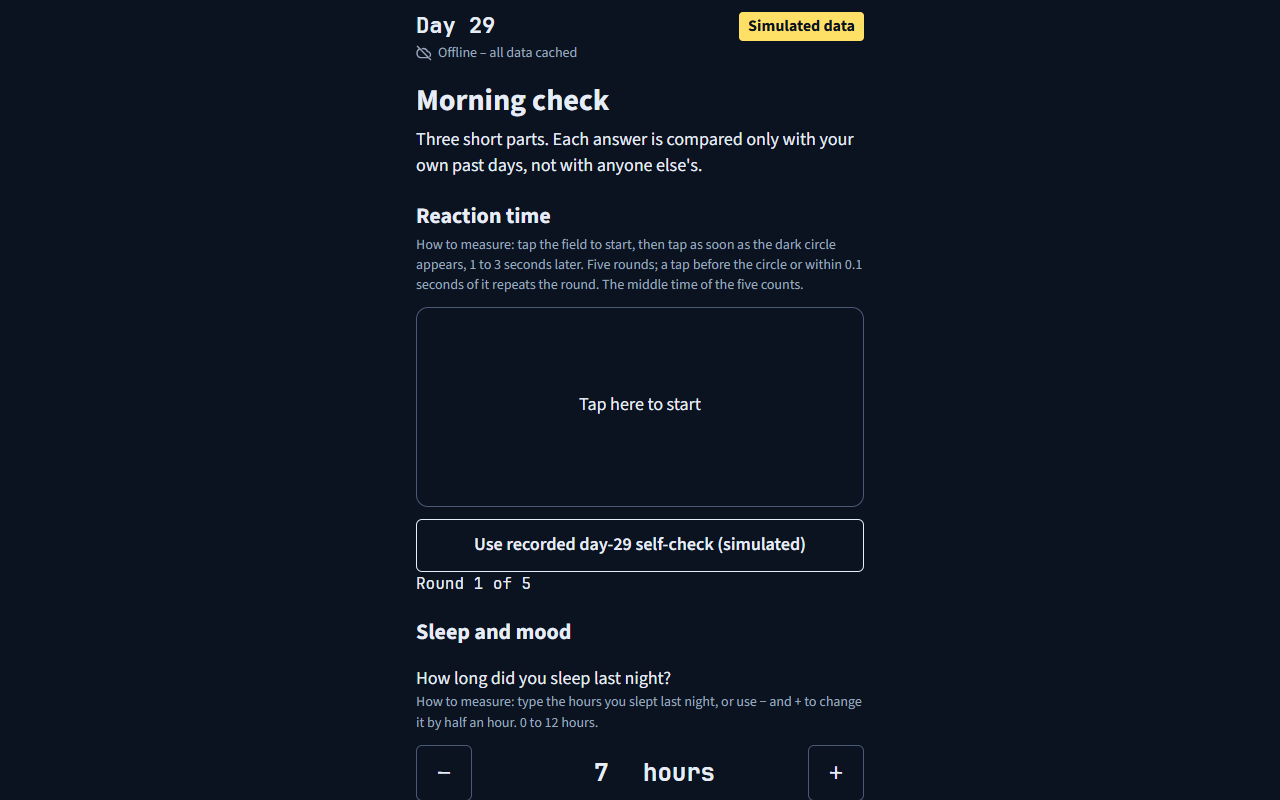
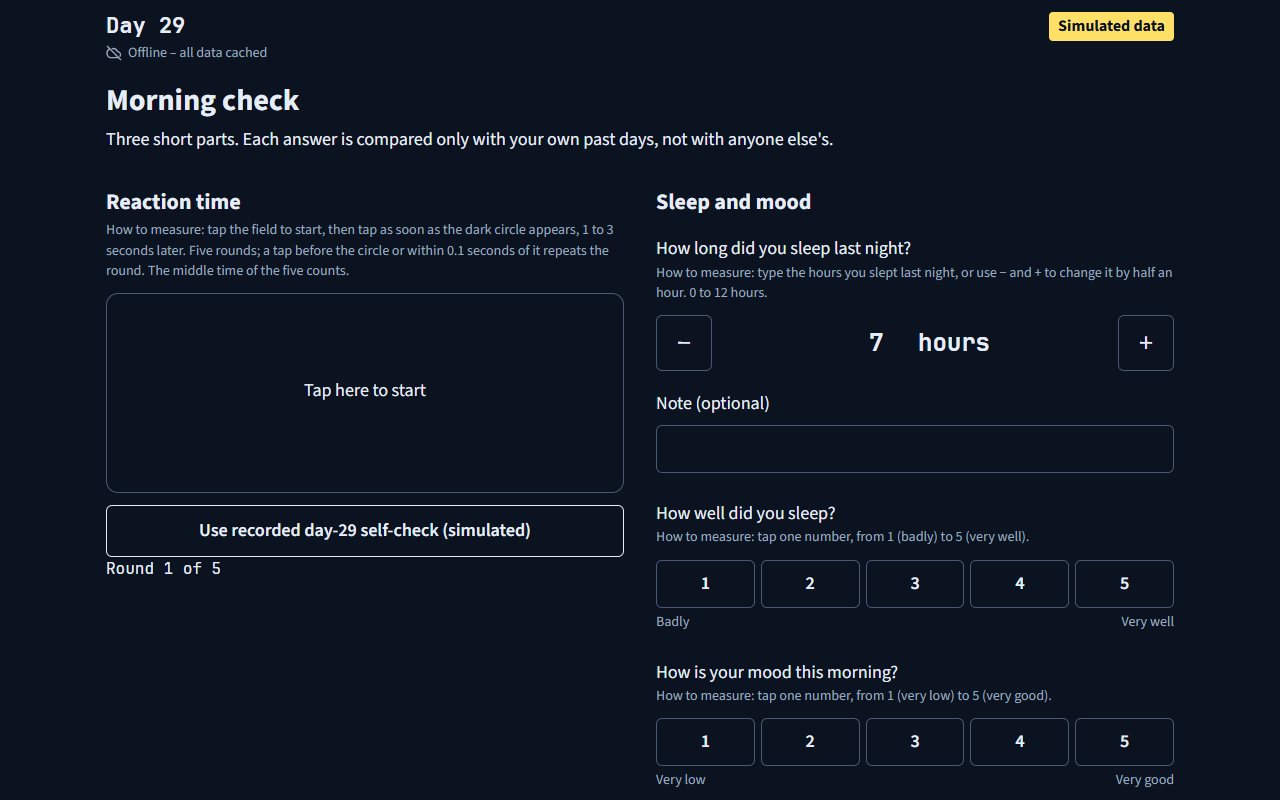
Responsive layout: tablet and laptop fill the screen; phone unchanged

diff --git a/web/index.html b/web/index.html
@@ -273,6 +273,23 @@ fieldset { border: 0; padding: 0; margin: 28px 0 0; min-width: 0; }
 
 /* Flight surgeon view (PLAN item 6, design L1): the one screen that uses a laptop's width; one column on a phone. */
 .wide .top, .wide main { max-width: 1360px; }
+/* Tablet and laptop (Hrishin, 13 Nov 2026): the same screens fill the width. Nothing here applies under 700 px,
+   so the phone layout is unchanged. The wrappers (.check-cols, .charts, .ev-cols) are plain blocks on a phone. */
+@media (min-width: 700px) {
+  .top, main { max-width: 900px; }
+  .bar-inner { max-width: 868px; }
+  .check-cols { display: grid; grid-template-columns: minmax(0, 1fr) minmax(0, 1fr); gap: 0 32px; align-items: start; }
+  .charts { display: grid; grid-template-columns: repeat(2, minmax(0, 1fr)); gap: 20px 24px; margin-top: 20px; }
+  .charts .channel { margin-top: 0; }
+  .charts .channel.bottom { grid-column: 1 / -1; } /* reaction time, alone on the last row: full row */
+}
+@media (min-width: 1100px) {
+  .top, main { max-width: 1100px; }
+  .bar-inner { max-width: 1068px; }
+  .charts { grid-template-columns: repeat(3, minmax(0, 1fr)); }
+  .ev-cols { display: grid; grid-template-columns: minmax(0, 1fr) minmax(0, 1fr); gap: 0 40px; align-items: start; }
+  .ev-b > h2:first-child { margin-top: 0; } /* both columns start on the same line */
+}
 #crew h1 { font-size: 36px; }
 .crew-grid { display: grid; gap: 24px; margin-top: 20px; }
 .crew-rows { list-style: none; padding: 0; margin: 0; }
@@ -332,6 +349,8 @@ fieldset { border: 0; padding: 0; margin: 28px 0 0; min-width: 0; }
   <h1 id="today-title" tabindex="-1">Morning check</h1>
   <p>Three short parts. Each answer is compared only with your own past days, not with anyone else's.</p>
 
+  <div class="check-cols">
+  <div class="check-rt">
   <h2>Reaction time</h2>
   <p class="meta how">How to measure: tap the field to start, then tap as soon as the dark circle appears, 1 to 3 seconds later. Five rounds; a tap before the circle or within 0.1 seconds of it repeats the round. The middle time of the five counts.</p>
   <button id="rt-field" class="rt" type="button" aria-describedby="rt-status">
@@ -342,6 +361,8 @@ fieldset { border: 0; padding: 0; margin: 28px 0 0; min-width: 0; }
   <button id="rt-recorded" class="secondary" type="button" disabled>Use recorded day-29 self-check (simulated)</button>
   <p id="rt-status" class="meta num" aria-live="polite">Round 1 of 5</p>
   <button id="rt-again" class="text-button" type="button" hidden>Run the test again</button>
+  </div>
+  <div class="check-rest">
 
   <h2>Sleep and mood</h2>
   <label class="q" for="sleep">How long did you sleep last night?</label>
@@ -390,6 +411,8 @@ fieldset { border: 0; padding: 0; margin: 28px 0 0; min-width: 0; }
       <input type="radio" id="vision-blurred" name="vision" value="blurred"><label for="vision-blurred">Blurred</label>
     </div>
   </fieldset>
+  </div>
+  </div>
 
   <p id="missing" class="missing" role="alert"></p>
   <button id="save" class="primary" type="button" disabled>Save and compare</button>
@@ -407,6 +430,7 @@ fieldset { border: 0; padding: 0; margin: 28px 0 0; min-width: 0; }
     <button type="button" data-range="7" aria-pressed="false">7 days</button>
     <button type="button" data-range="0" aria-pressed="true">30 days</button>
   </div>
+  <div class="charts">
   <div class="channel" data-signal="heart_rate_bpm">
     <div class="channel-head"><span>Heart rate</span><span class="val"></span></div>
     <div class="plot"><canvas role="img"></canvas></div>
@@ -434,6 +458,7 @@ fieldset { border: 0; padding: 0; margin: 28px 0 0; min-width: 0; }
   <div class="channel bottom" data-signal="reaction_ms">
     <div class="channel-head"><span>Reaction time</span><span class="val"></span></div>
     <div class="plot"><canvas role="img"></canvas></div>
+  </div>
   </div>
   <div id="radiation" class="radiation">
     <h2>Real data: NASA MSL RAD and NOAA GOES</h2>
@@ -564,6 +589,8 @@ fieldset { border: 0; padding: 0; margin: 28px 0 0; min-width: 0; }
   <p id="ev-who" class="days-line" hidden></p>
   <p id="ev-replay" class="days-line" hidden></p>
   <h1 id="ev-title" tabindex="-1"></h1>
+  <div class="ev-cols">
+  <div class="ev-a">
   <p id="ev-plain"></p>
   <p id="ev-note" hidden></p>
   <h2>The numbers</h2>
@@ -571,6 +598,8 @@ fieldset { border: 0; padding: 0; margin: 28px 0 0; min-width: 0; }
   <p id="ev-rounding" class="meta">Numbers are shown to one decimal; z uses the unrounded values.</p>
   <div id="ev-extra" hidden></div>
   <button id="ev-maths" class="text-button maths-link" type="button">Show the maths</button>
+  </div>
+  <div class="ev-b">
   <h2>Why it matters</h2>
   <p id="ev-words"></p>
   <p id="ev-study" class="cite"></p>
@@ -583,6 +612,8 @@ fieldset { border: 0; padding: 0; margin: 28px 0 0; min-width: 0; }
     <button id="ev-mark" class="secondary" type="button">Mark step done</button>
     <p id="ev-mark-line" aria-live="polite" hidden></p>
     <p id="ev-mark-note" class="meta" hidden>Not saved: this browser blocks storage, so this mark is kept for this visit only.</p>
+  </div>
+  </div>
   </div>
   <p id="ev-source" class="meta"></p>
   <p id="ev-rule" class="meta"></p>

diff --git a/tests/test_web.py b/tests/test_web.py
@@ -476,3 +476,21 @@ def test_inline_numbers_use_the_text_font_and_the_crew_badge_stays_on_one_line()
     badge = re.search(r"^\.crew-count \{([^}]*)\}", html, re.M).group(1)
     assert "white-space: nowrap" in badge and "flex-shrink: 0" in badge and "var(--mono)" in badge and "font-size: 16px" in badge
     assert "grid-template-columns: minmax(200px, max-content) minmax(0, 1fr) auto" in html
+
+
+def test_tablet_and_laptop_breakpoints_leave_the_phone_layout_alone():
+    """13 Nov (Hrishin): one page fills a tablet (700 to 1099 px) and a laptop (1100 px and wider); under 700 px
+    nothing changes. The wrappers are plain blocks on a phone and hold the same elements in the same order."""
+    html = Path("web/index.html").read_text(encoding="utf-8")
+    style = html[html.index("<style>"):html.index("</style>")]
+    queries = re.findall(r"@media \(([^)]*)\)", style)
+    assert "min-width: 700px" in queries and "min-width: 1100px" in queries
+    assert not [q for q in queries if "max-width" in q], "no rule aimed below 700 px"
+    for name in ("check-cols", "charts", "ev-cols"):
+        assert not re.search(r"(^|\})\s*\." + name + r"\s*\{", style.split("@media (min-width: 700px)")[0]), f".{name} styled outside the breakpoints"
+    tablet = style[style.index("@media (min-width: 700px) {\n  .top, main"):]
+    assert ".charts .channel.bottom { grid-column: 1 / -1; }" in tablet, "reaction time spans the last row"
+    order = lambda *ids: [html.index(i) for i in ids] == sorted(html.index(i) for i in ids)
+    assert order('class="check-cols"', 'class="check-rt"', 'id="rt-field"', 'id="rt-recorded"', 'id="rt-again"', 'class="check-rest"', 'id="sleep"', 'id="note"', 'id="vision-blurred"', 'id="missing"')
+    assert order('class="charts"', 'data-signal="heart_rate_bpm"', 'data-signal="reaction_ms"', 'id="radiation"')
+    assert order('class="ev-cols"', 'class="ev-a"', 'id="ev-plain"', 'id="ev-numbers"', 'id="ev-maths"', 'class="ev-b"', 'id="ev-words"', 'id="ev-step"', 'id="ev-source"')
